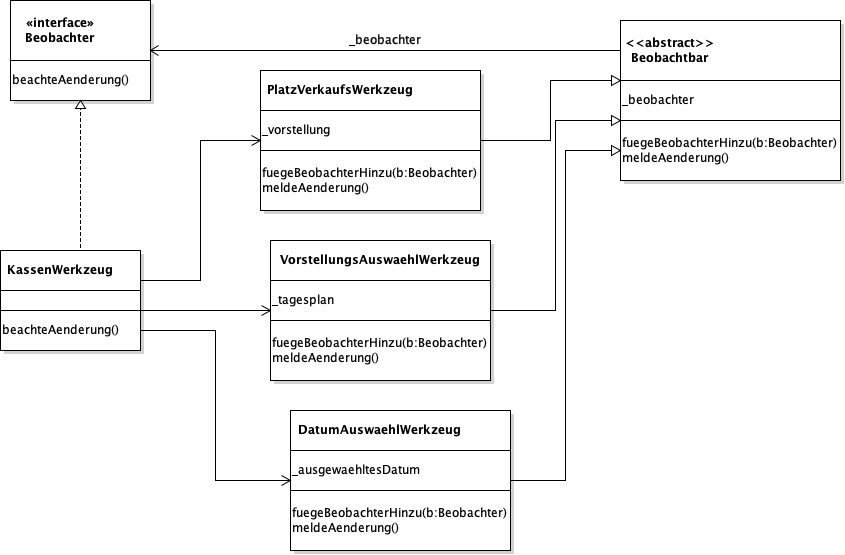
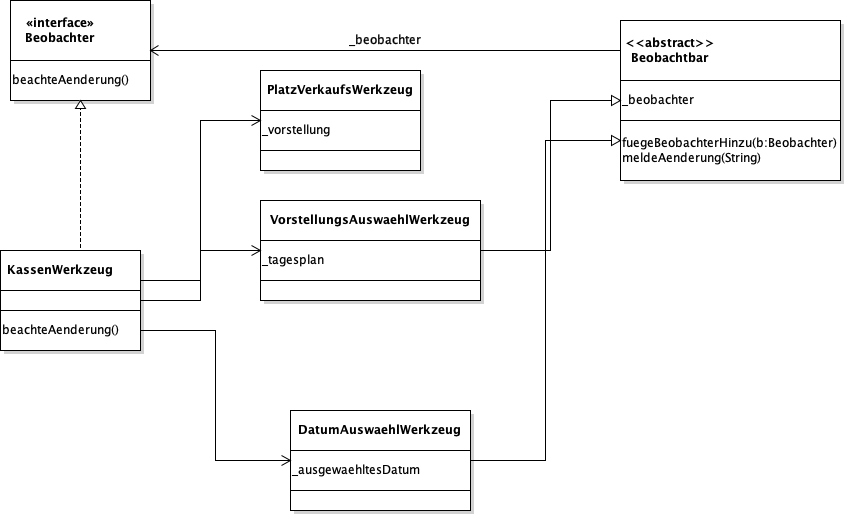
fertige Implementation aus der Gruppe, Kommentare nachtragen

Changed region(s): [[0.1846, 0.0311, 1.0, 1.0], [0.0, 0.466, 0.2462, 0.7146], [0.0, 0.0311, 0.1846, 0.2175]]

diff --git a/Blatt 07/Kinoticketverkauf_QuocHuy/src/de/uni_hamburg/informatik/swt/se2/kino/werkzeuge/Beobachtbar.java b/Blatt 07/Kinoticketverkauf_QuocHuy/src/de/uni_hamburg/informatik/swt/se2/kino/werkzeuge/Beobachtbar.java
@@ -1,6 +1,6 @@
 package de.uni_hamburg.informatik.swt.se2.kino.werkzeuge;
 
-import static org.junit.Assert.assertTrue;
+import java.util.ArrayList;
 
 /**
  * Basisklasse für Subwerkzeuge, die ihr Kontextwerkzeug bei Änderungen
@@ -19,9 +19,10 @@ import static org.junit.Assert.assertTrue;
  * @author Bugbuster
  * @version SoSe 2019
  */
-public abstract class Beobachbar
+public abstract class Beobachtbar
 {
-    public Beobachter _beobachter; //In diesen Programm gibt es nur einen Beobachter
+
+    public ArrayList<Beobachter> _beobachter = new ArrayList<Beobachter>();
 
     /**
      * Methode, einen neuen Beobachter zu registrieren
@@ -29,24 +30,12 @@ public abstract class Beobachbar
      * @require beobachter != null
      * @param beobachter : der neue Beobachter
      */
-    public void registerBeobachter(Beobachter beobachter)
+    public void fuegeBeobachterHinzu(Beobachter beobachter)
     {
-        assertTrue("_beobachter ist noch nicht registriert",
-                _beobachter == null);
+        assert _beobachter != null : "_beobachter ist noch nicht registriert";
 
-        _beobachter = beobachter;
+        _beobachter.add(beobachter);
 
-    }
-
-    // Das kann gelöscht werden, wird nicht benutzt
-    /**
-     * Gib den Beobachter zurück
-     * K
-     * @return der registrierte Beobachter
-     */
-    public Beobachter getBeobachter()
-    {
-        return _beobachter;
     }
 
     /**
@@ -55,11 +44,15 @@ public abstract class Beobachbar
      * 
      * Diese Methode muss von der erbenden Klasse immer dann aufgerufen werden,
      * wenn eine Änderung geschehen ist, die für Beobachter interessant ist.
+     * 
      */
-    public void meldeAenderung()
+    public void meldeAenderung(String artDerAenderung)
     {
         //Hier gibt es noch Fehler
-        //assertTrue("_beobachter ist noch nicht registriert",_beobachter == null);
-        _beobachter.beachteAenderung();
+        assert _beobachter != null : "_beobachter ist noch nicht registriert";
+        for (Beobachter beobachter : _beobachter)
+        {
+            beobachter.beachteAenderung(artDerAenderung);
+        }
     }
 }

diff --git a/Blatt 07/Kinoticketverkauf_QuocHuy/src/de/uni_hamburg/informatik/swt/se2/kino/werkzeuge/datumsauswaehler/DatumAuswaehlWerkzeug.java b/Blatt 07/Kinoticketverkauf_QuocHuy/src/de/uni_hamburg/informatik/swt/se2/kino/werkzeuge/datumsauswaehler/DatumAuswaehlWerkzeug.java
@@ -6,7 +6,7 @@ import java.awt.event.ActionListener;
 import javax.swing.JPanel;
 
 import de.uni_hamburg.informatik.swt.se2.kino.fachwerte.Datum;
-import de.uni_hamburg.informatik.swt.se2.kino.werkzeuge.Beobachbar;
+import de.uni_hamburg.informatik.swt.se2.kino.werkzeuge.Beobachtbar;
 
 /**
  * Mit diesem Werkzeug kann ein Datum ausgewählt werden.
@@ -17,7 +17,7 @@ import de.uni_hamburg.informatik.swt.se2.kino.werkzeuge.Beobachbar;
  * @author SE2-Team
  * @version SoSe 2018
  */
-public class DatumAuswaehlWerkzeug extends Beobachbar
+public class DatumAuswaehlWerkzeug extends Beobachtbar
 {
     private DatumAuswaehlWerkzeugUI _ui;
     private Datum _ausgewaehltesDatum;
@@ -32,6 +32,7 @@ public class DatumAuswaehlWerkzeug extends Beobachbar
         _ui = new DatumAuswaehlWerkzeugUI(
                 _ausgewaehltesDatum.getFormatiertenString());
         registriereUIAktionen();
+
     }
 
     /**
@@ -44,7 +45,7 @@ public class DatumAuswaehlWerkzeug extends Beobachbar
             .setText(_ausgewaehltesDatum.getFormatiertenString());
 
         // TODO Neu implementiert
-        meldeAenderung();
+        meldeAenderung("tagesplan");
     }
 
     /**
@@ -57,7 +58,7 @@ public class DatumAuswaehlWerkzeug extends Beobachbar
             .setText(_ausgewaehltesDatum.getFormatiertenString());
 
         // TODO Neu implementiert
-        meldeAenderung();
+        meldeAenderung("tagesplan");
     }
 
     /**

diff --git a/Blatt 07/Kinoticketverkauf_QuocHuy/src/de/uni_hamburg/informatik/swt/se2/kino/werkzeuge/kasse/KassenWerkzeug.java b/Blatt 07/Kinoticketverkauf_QuocHuy/src/de/uni_hamburg/informatik/swt/se2/kino/werkzeuge/kasse/KassenWerkzeug.java
@@ -127,10 +127,21 @@ public class KassenWerkzeug implements Beobachter
 
     // Neu implementiert
     @Override
-    public void beachteAenderung()
+    public void beachteAenderung(String artDerAenderung)
     {
-        setzeAusgewaehlteVorstellung();
-        setzeTagesplanFuerAusgewaehltesDatum();
+        switch (artDerAenderung)
+        {
+        case "vorstellung":
+            setzeAusgewaehlteVorstellung();
+            break;
+
+        case "tagesplan":
+            setzeTagesplanFuerAusgewaehltesDatum();
+            break;
+
+        default:
+            break;
+        }
     }
 
     /**
@@ -138,26 +149,8 @@ public class KassenWerkzeug implements Beobachter
      */
     private void registriereBeobachterFuerSubwerkzeuge()
     {
-
-        _vorstellungAuswaehlWerkzeug.registerBeobachter(new Beobachter()
-        {
-            @Override
-            public void beachteAenderung()
-            {
-                setzeAusgewaehlteVorstellung();
-            }
-        });
-        _datumAuswaehlWerkzeug.registerBeobachter(new Beobachter()
-        {
-
-            @Override
-            public void beachteAenderung()
-            {
-                setzeTagesplanFuerAusgewaehltesDatum();
-
-            }
-        });
-
+        _vorstellungAuswaehlWerkzeug.fuegeBeobachterHinzu(this);
+        _datumAuswaehlWerkzeug.fuegeBeobachterHinzu(this);
     }
 
 }

diff --git a/Blatt 07/Kinoticketverkauf_QuocHuy/src/de/uni_hamburg/informatik/swt/se2/kino/werkzeuge/vorstellungsauswaehler/VorstellungsAuswaehlWerkzeug.java b/Blatt 07/Kinoticketverkauf_QuocHuy/src/de/uni_hamburg/informatik/swt/se2/kino/werkzeuge/vorstellungsauswaehler/VorstellungsAuswaehlWerkzeug.java
@@ -8,7 +8,7 @@ import javax.swing.event.ListSelectionListener;
 
 import de.uni_hamburg.informatik.swt.se2.kino.materialien.Tagesplan;
 import de.uni_hamburg.informatik.swt.se2.kino.materialien.Vorstellung;
-import de.uni_hamburg.informatik.swt.se2.kino.werkzeuge.Beobachbar;
+import de.uni_hamburg.informatik.swt.se2.kino.werkzeuge.Beobachtbar;
 
 /**
  * Mit diesem Werkzeug kann der Benutzer oder die Benutzerin eine Vorstellung
@@ -17,7 +17,7 @@ import de.uni_hamburg.informatik.swt.se2.kino.werkzeuge.Beobachbar;
  * Dieses Werkzeug ist ein eingebettetes Subwerkzeug. Es benachrichtigt seine
  * Beobachter, wenn sich die ausgewählte Vorstellung geändert hat.
  */
-public class VorstellungsAuswaehlWerkzeug extends Beobachbar
+public class VorstellungsAuswaehlWerkzeug extends Beobachtbar
 {
     private VorstellungsAuswaehlWerkzeugUI _ui;
 
@@ -31,6 +31,7 @@ public class VorstellungsAuswaehlWerkzeug extends Beobachbar
     {
         _ui = new VorstellungsAuswaehlWerkzeugUI();
         registriereUIAktionen();
+
     }
 
     /**
@@ -39,7 +40,7 @@ public class VorstellungsAuswaehlWerkzeug extends Beobachbar
     private void vorstellungWurdeAusgewaehlt()
     {
         //TODO Neu implementiert
-        meldeAenderung();
+        meldeAenderung("vorstellung");
     }
 
     /**

diff --git a/Blatt 07/Kinoticketverkauf_QuocHuy/src/de/uni_hamburg/informatik/swt/se2/kino/werkzeuge/Beobachter.java b/Blatt 07/Kinoticketverkauf_QuocHuy/src/de/uni_hamburg/informatik/swt/se2/kino/werkzeuge/Beobachter.java
@@ -17,6 +17,6 @@ public interface Beobachter
      * Implementierende Klassen müssen in dieser Operation auf die Aenderung
      * reagieren.
      */
-    public void beachteAenderung();
+    public void beachteAenderung(String artDerAenderung);
 
 }
